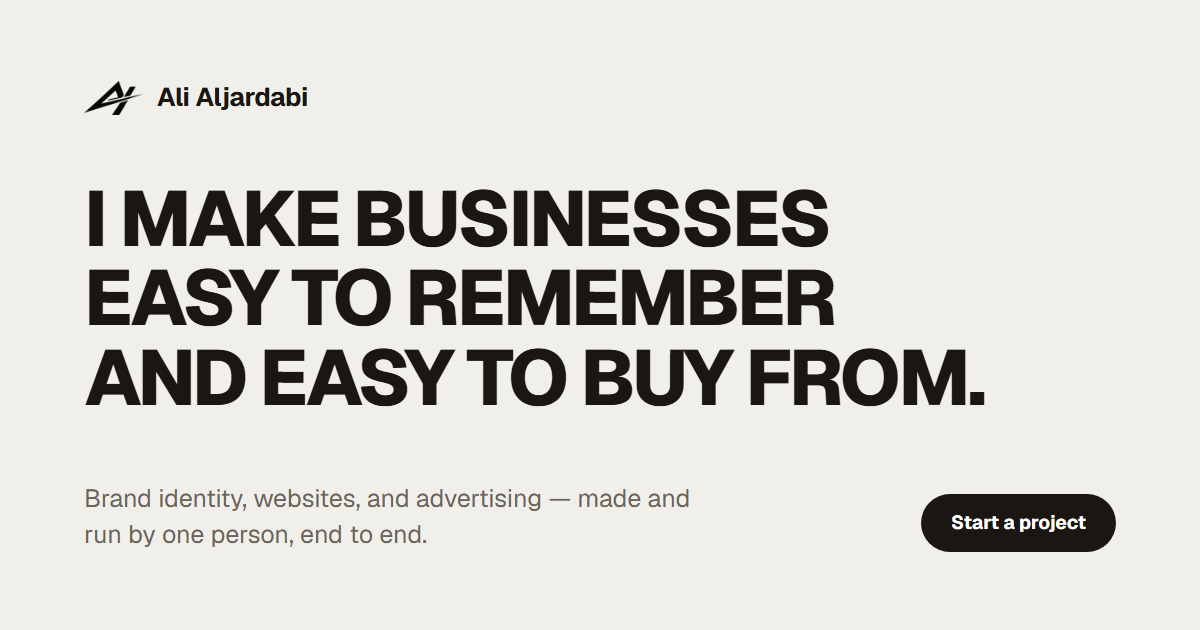
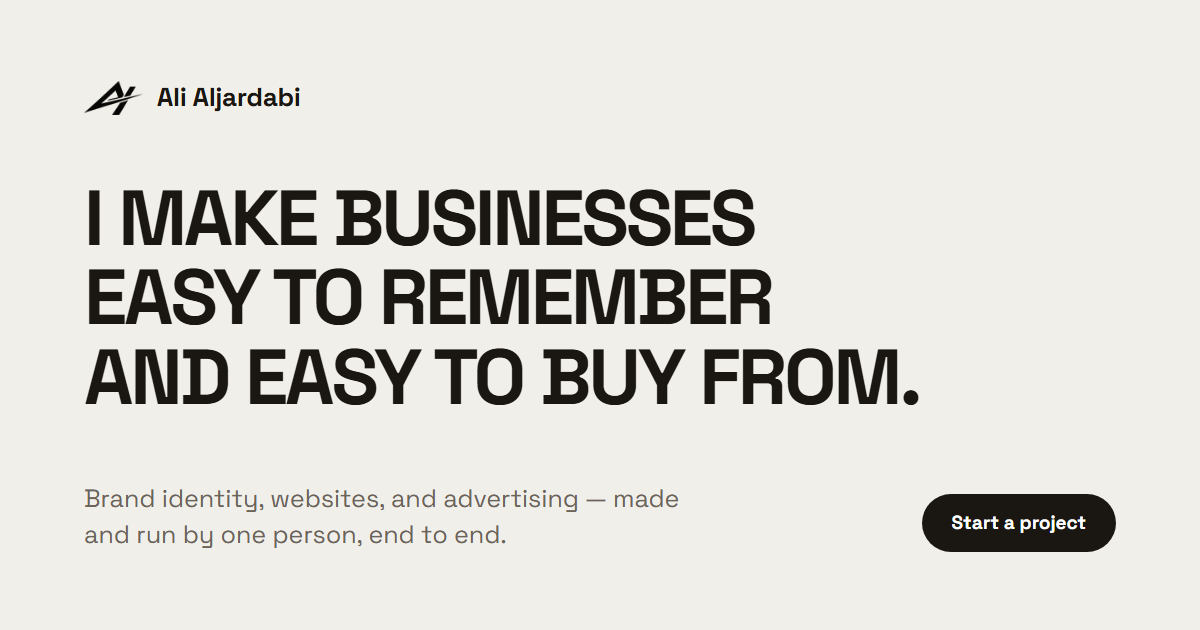
feat: Space Grotesk throughout
What Ali asked for two rounds ago. He said "grotski", I offered three
grotesques and recommended Geist, and he took the recommendation — then
looked at it and said no. The original word was the right answer.

Space Grotesk carries character the neutral grotesques do not: the R, the
a, the single-storey 1. On a page whose whole argument is that the person
behind it has taste, a workhorse face was the wrong trade.

It stops at 700, so every statement rule that asked for 800 now asks for
700. Asking a face for a weight it does not ship gets a synthesised one —
the exact trap that cost a round on Instrument Serif, and worth not
repeating in the same week.

Geist Mono stays for the loader counter.

diff --git a/src/app/layout.tsx b/src/app/layout.tsx
@@ -1,5 +1,5 @@
 import type { Metadata } from "next";
-import { Geist, Geist_Mono } from "next/font/google";
+import { Space_Grotesk, Geist_Mono } from "next/font/google";
 import { siteUrl } from "@/lib/site";
 import WhatsAppButton from "@/components/lab/WhatsAppButton";
 import { labContent } from "@/data/lab";
@@ -8,19 +8,23 @@ import "./globals.css";
 /*
  * ONE FAMILY, EVERYTHING (Ali's call, 2026-08-17).
  *
- * Geist for display and for text, with Geist Mono alongside it. Replaces
- * Nunito + Schibsted Grotesk, whose rounded terminals were chosen for a
- * warm, approachable register the site no longer has — beside concrete
- * they read soft where the page needs to read authoritative.
+ * Space Grotesk for display and for text, with Geist Mono alongside it.
+ * Replaces Nunito + Schibsted Grotesk, whose rounded terminals were chosen
+ * for a warm, approachable register the site no longer has — beside
+ * concrete they read soft where the page needs to read authoritative.
  *
- * A serif pairing was tried first and dropped in a day. Instrument Serif
- * had one weight and nothing to give when asked for bolder; Fraunces
- * fixed the weight but bought a second family and a second set of
- * tracking rules for six lines of copy. One grotesque at 900 does the
- * same job with no pairing decisions left to make, and the weight range
- * is what carries the hierarchy instead.
+ * A serif pairing was tried first and dropped: Instrument Serif had one
+ * weight and nothing to give when asked for bolder, and Fraunces fixed
+ * that by buying a second family plus its own tracking table for six
+ * lines of copy. One grotesque does the same job with no pairing left to
+ * decide.
+ *
+ * SPACE GROTESK STOPS AT 700. It has more character than the neutral
+ * grotesques — the R, the a, the single-storey 1 — and that character is
+ * why it was chosen, but the statement rules cannot ask for 800 here.
+ * See globals.css.
  */
-const geist = Geist({
+const spaceGrotesk = Space_Grotesk({
   variable: "--font-text",
   subsets: ["latin"],
 });
@@ -88,7 +92,7 @@ export default function RootLayout({
     <html
       lang="en"
       suppressHydrationWarning
-      className={`${geist.variable} ${geistMono.variable} h-full antialiased`}
+      className={`${spaceGrotesk.variable} ${geistMono.variable} h-full antialiased`}
     >
       <body className="min-h-full flex flex-col bg-lab-air">
         <a

diff --git a/src/app/globals.css b/src/app/globals.css
@@ -1885,7 +1885,11 @@ html[data-aperture-seen="true"] #aperture-loader {
 .lab-service-card__name,
 .lab-channel__label,
 .lab-stat {
-  font-weight: 800;
+  /* 700, not 800. Space Grotesk stops there — asking for more gets a
+     synthesised weight, which is the exact trap that cost a round on
+     Instrument Serif. Its character carries what the extra weight would
+     have. */
+  font-weight: 700;
 }
 
 .lab-threshold__statement {
